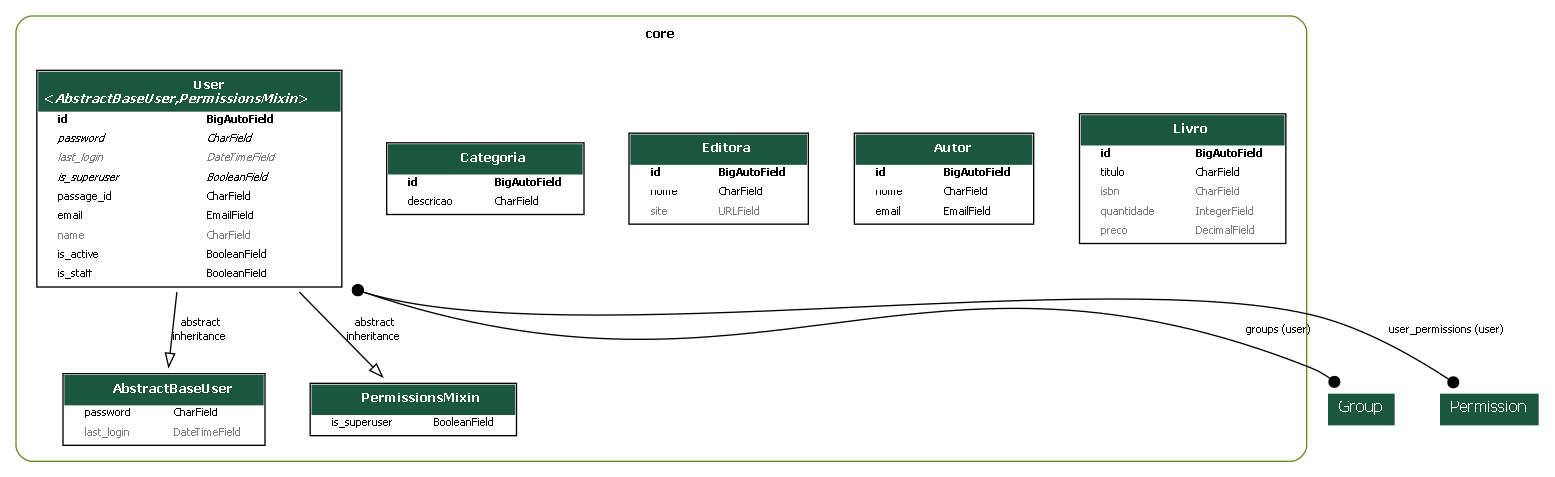
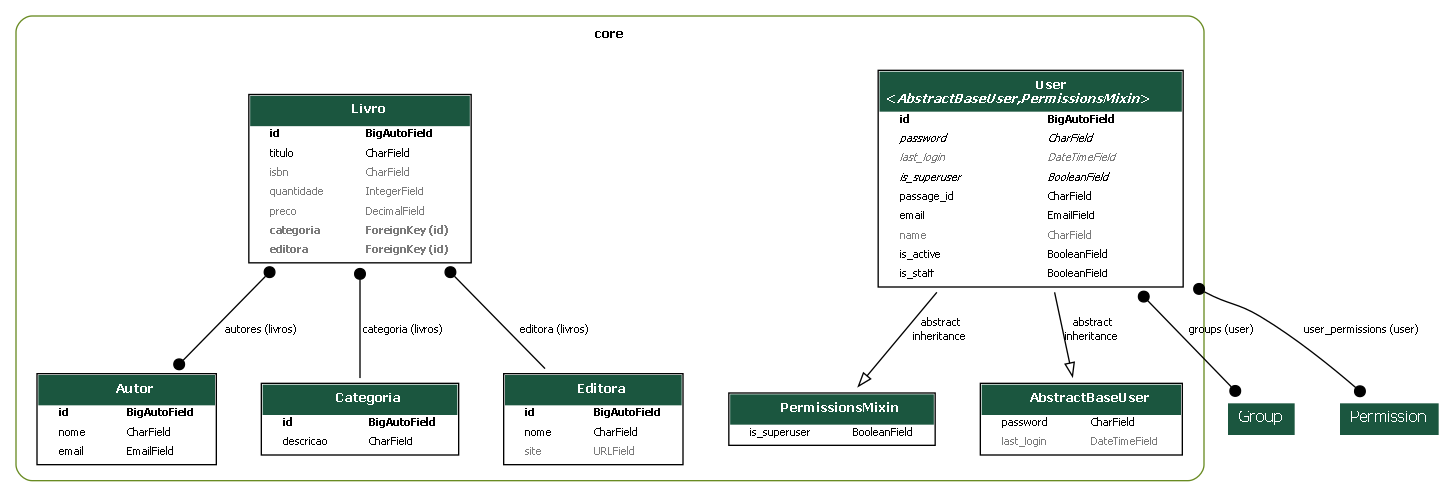
feat: criação de múltiplos serializadores para Livro

diff --git a/core/migrations/0009_livro_autores_livro_categoria_livro_editora.py b/core/migrations/0009_livro_autores_livro_categoria_livro_editora.py
@@ -1,0 +1,29 @@
+# Generated by Django 5.1.7 on 2025-05-11 00:14
+
+import django.db.models.deletion
+from django.db import migrations, models
+
+
+class Migration(migrations.Migration):
+
+    dependencies = [
+        ('core', '0008_livro'),
+    ]
+
+    operations = [
+        migrations.AddField(
+            model_name='livro',
+            name='autores',
+            field=models.ManyToManyField(blank=True, related_name='livros', to='core.autor'),
+        ),
+        migrations.AddField(
+            model_name='livro',
+            name='categoria',
+            field=models.ForeignKey(blank=True, null=True, on_delete=django.db.models.deletion.PROTECT, related_name='livros', to='core.categoria'),
+        ),
+        migrations.AddField(
+            model_name='livro',
+            name='editora',
+            field=models.ForeignKey(blank=True, null=True, on_delete=django.db.models.deletion.PROTECT, related_name='livros', to='core.editora'),
+        ),
+    ]

diff --git a/core/models/livro.py b/core/models/livro.py
@@ -11,7 +11,7 @@ class Livro(models.Model):
     preco = models.DecimalField(max_digits=7, decimal_places=2, default=0, null=True, blank=True)
     categoria = models.ForeignKey(Categoria, on_delete=models.PROTECT, related_name="livros", null=True, blank=True)
     editora = models.ForeignKey(Editora, on_delete=models.PROTECT, related_name="livros", null=True, blank=True)
-    autor = models.ForeignKey(Autor, on_delete=models.PROTECT, related_name="livros", null=True, blank=True)
+    autores = models.ManyToManyField(Autor, related_name="livros", blank=True)
 
     def __str__(self):
         return f"({self.id}) {self.titulo} ({self.quantidade})"

diff --git a/core/views/livro.py b/core/views/livro.py
@@ -1,8 +1,13 @@
 from rest_framework.viewsets import ModelViewSet
 
 from core.models import Livro
-from core.serializers import LivroSerializer
+from core.serializers import LivroSerializer, LivroListSerializer, LivroRetrieveSerializer
 
 class LivroViewSet(ModelViewSet):
     queryset = Livro.objects.all()
-    serializer_class = LivroSerializer
+    def get_serializer_class(self):
+        if self.action == "list":
+            return LivroListSerializer
+        elif self.action == "retrieve":
+            return LivroRetrieveSerializer
+        return LivroSerializer

diff --git a/core/serializers/livro.py b/core/serializers/livro.py
@@ -6,3 +6,15 @@ class LivroSerializer(ModelSerializer):
     class Meta:
         model = Livro
         fields = "__all__"
+
+
+class LivroListSerializer(ModelSerializer):
+    class Meta:
+        model = Livro
+        fields = ("id", "titulo", "preco")
+
+class LivroRetrieveSerializer(ModelSerializer):
+    class Meta:
+        model = Livro
+        fields = "__all__"
+        depth = 1

diff --git a/core/serializers/__init__.py b/core/serializers/__init__.py
@@ -2,4 +2,4 @@ from .user import UserSerializer
 from .categoria import CategoriaSerializer
 from .editora import EditoraSerializer
 from .autor import AutorSerializer
-from .livro import LivroSerializer
+from .livro import LivroSerializer, LivroRetrieveSerializer, LivroListSerializer
